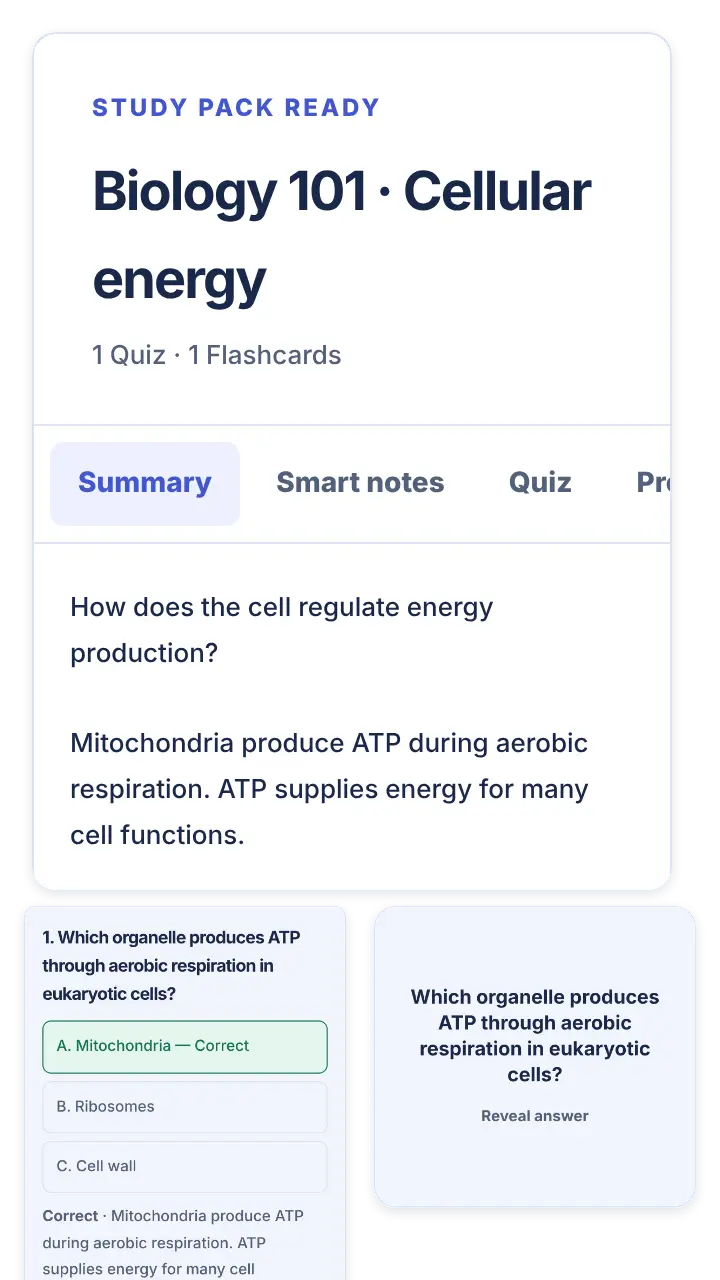
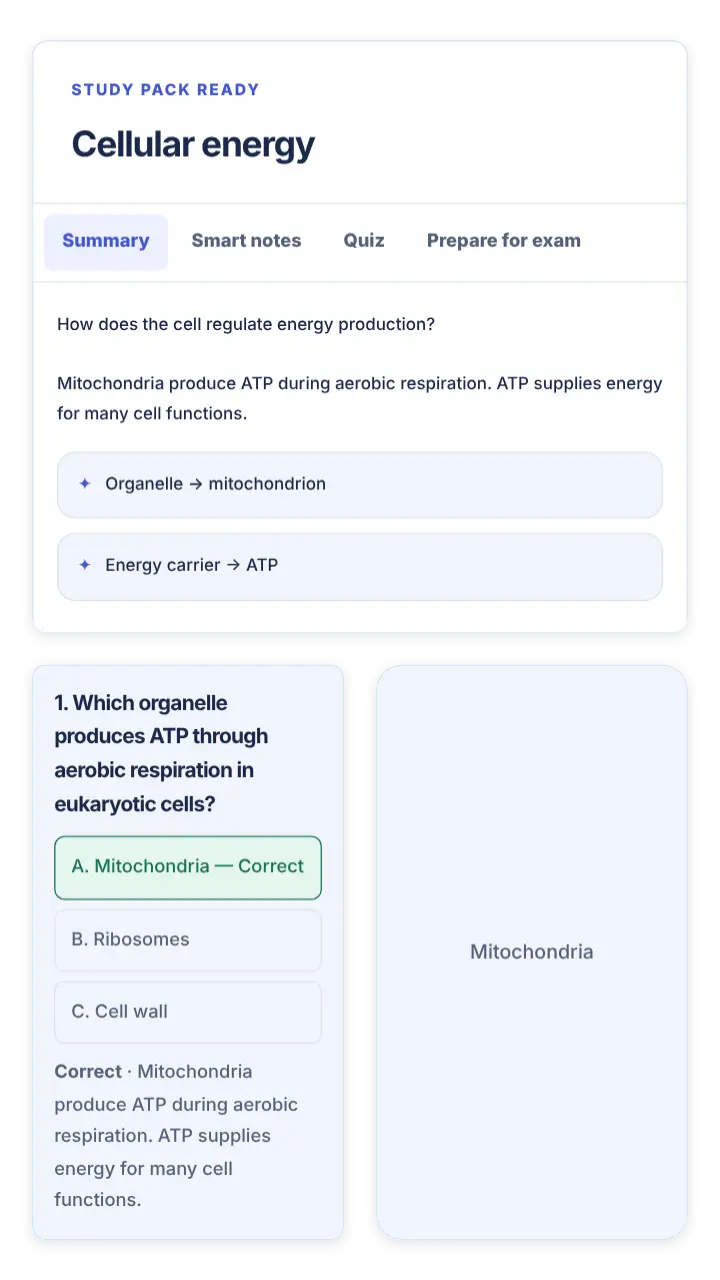
Lay out the homepage result screenshots without overlaps, at one scale
The capture script now fits each image to what the workspace renders:

- Desktop: the summary panel fills the height on the left; the quiz
  question and the flashcard are stacked on its right with the same 24px
  gap everywhere. Nothing overlaps and every sentence is complete.
- Phone: the summary panel spans the width with equal side margins; the
  quiz question and the flashcard sit below it, side by side and the same
  height, at the largest zoom that fits.
- All three parts of an image are drawn at one zoom, so text has one scale.
- The flashcard shows its answer side, as on the homepage demo card.
- Only tabs that fit completely are shown, the "1 Quiz · 1 flashcards"
  line is hidden, and the title is the lesson topic alone.

The contract test now also pins the even margins of all four images.

Claude-Session: https://claude.ai/code/session_01Wsm9SuqXSLe9T7pBHhVFLs

diff --git a/tests/test_frontend_contract.py b/tests/test_frontend_contract.py
@@ -251,11 +251,20 @@ def test_homepage_shows_a_sized_lazy_result_screenshot_and_repeats_the_trial_act
     assert (phone, desktop) == ("/assets/home/result-screen-v1-tr-720.webp", "/assets/home/result-screen-v1-tr-1440.webp")
     sizes = {phone: (int(phone_width), int(phone_height)), desktop: (int(desktop_width), int(desktop_height))}
     assert sizes == {phone: (720, 1280), desktop: (1440, 840)}
+    # The opaque panels keep one even gap from the sides (24 CSS px at 1.5x on
+    # desktop, 16 at 2x on the phone) and split the height evenly above and
+    # below, so nothing touches an edge and no empty strip is left at the
+    # bottom. Shadows stay under half opacity and are not counted.
+    gaps = {phone: 32, desktop: 36}
     for language in ("tr", "en"):
         for published, size in sizes.items():
             asset = FRONTEND / published.lstrip("/").replace("-tr-", f"-{language}-")
             with Image.open(asset) as image:
                 assert (image.format, image.size) == ("WEBP", size), asset.name
+                left, top, right, bottom = image.getchannel("A").point(lambda alpha: 255 if alpha > 128 else 0).getbbox()
+            margins = (left, top, size[0] - right, size[1] - bottom)
+            gap = gaps[published]
+            assert margins[0] == margins[2] == gap and abs(margins[1] - margins[3]) <= 2 and gap <= margins[1] <= gap + 12, (asset.name, margins)
             assert asset.stat().st_size < 64 * 1024, asset.name
     # Heading, caption, alt text and the closing band are static copy that the
     # build translates into every language.
